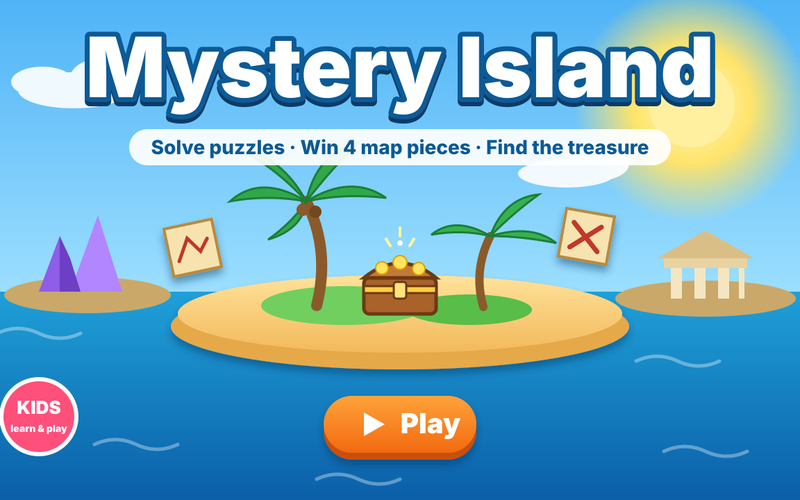
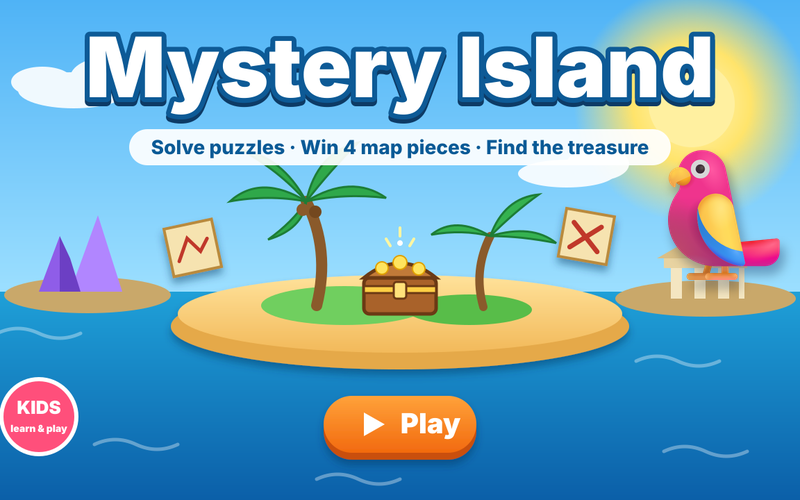
Mystery Island: Kiki on the cover, one Kiki in tutorial, spaced-out level 1 items
- Cover now has Kiki next to the title, treasure chest and islands (800x500)
- Tutorial first screen shows Kiki once (island icon instead of a second parrot)
- Level scenery uses fixed spots so items never overlap each other or the clue
- Service worker cache bumped

3 questions:
1. Retention: a cover that shows Kiki and the treasure goal brings players in; islands unlock as map pieces are won.
2. Time well spent: counting, words, memory and science puzzles for ages 6-12.
3. Money: kids game, no ads or analytics by design.

Changed region(s): [[0.8125, 0.3, 1.0, 0.6]]

diff --git a/games/nikhatenglish89/js/screens/tutorial.js b/games/nikhatenglish89/js/screens/tutorial.js
@@ -10,7 +10,7 @@ import { unlockAudio, stopVoice } from '../audio.js';
 export function render() {
   const p = state.profile;
   const lines = tList('kiki.tutorial');
-  const icons = ['🦜', '🗺', '💡', '⭐', '🏖'];
+  const icons = ['🏝', '🗺', '💡', '⭐', '🏖'];
   let i = 0;
   const bird = kiki(lines[0].replace('{name}', p.nickname), { key: 'tutorial-0', size: 'big' });
   const icon = h('div.tutorial-icon', { 'aria-hidden': 'true' }, icons[0]);
@@ -31,7 +31,7 @@ export function render() {
       return;
     }
     bird.setText(lines[i].replace('{name}', p.nickname), 'tutorial-' + i);
-    icon.textContent = icons[i] || '🦜';
+    icon.textContent = icons[i] || '🏝';
     if (i === lines.length - 1) nextBtn.textContent = t('ui.tutorial.go');
   }
 

diff --git a/games/nikhatenglish89/js/screens/level.js b/games/nikhatenglish89/js/screens/level.js
@@ -86,12 +86,14 @@ export async function render({ id }) {
 
   // ---------- Exploration ----------
   function explore() {
+    // fixed spots (left %, top %) so the items never sit on top of each other or the clue
+    const SPOTS = [[7, 8], [43, 5], [78, 8], [6, 62], [78, 62], [42, 76]];
     const scenery = world.scenery.map((emoji, i) =>
       h(
         'button.scene-item',
         {
           type: 'button',
-          style: { left: 8 + ((i * 37) % 80) + '%', top: 12 + ((i * 53) % 60) + '%' },
+          style: { left: SPOTS[i % SPOTS.length][0] + '%', top: SPOTS[i % SPOTS.length][1] + '%' },
           'aria-label': emoji,
           onclick: (e) => {
             sfx('pop');

diff --git a/games/nikhatenglish89/service-worker.js b/games/nikhatenglish89/service-worker.js
@@ -2,7 +2,7 @@
 // are cached so the game can be replayed without a connection. Bump VERSION
 // whenever game files change so players get the update.
 
-const VERSION = 'mystery-island-v1.2.0';
+const VERSION = 'mystery-island-v1.3.0';
 
 const FILES = [
   './',
